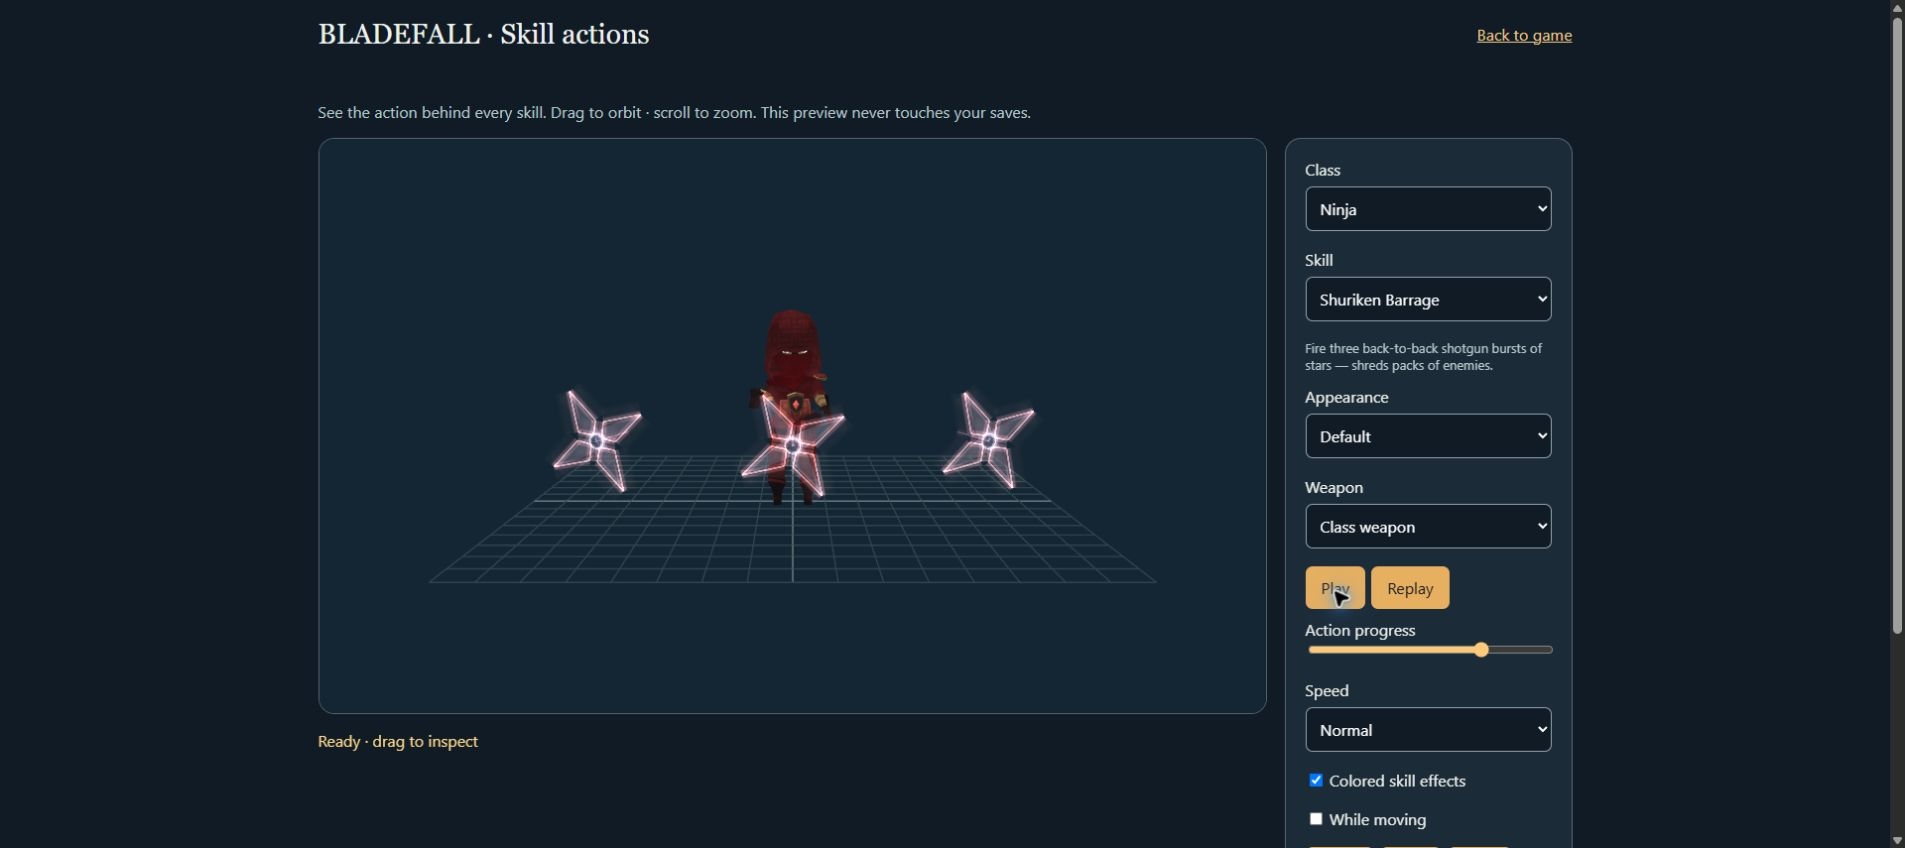
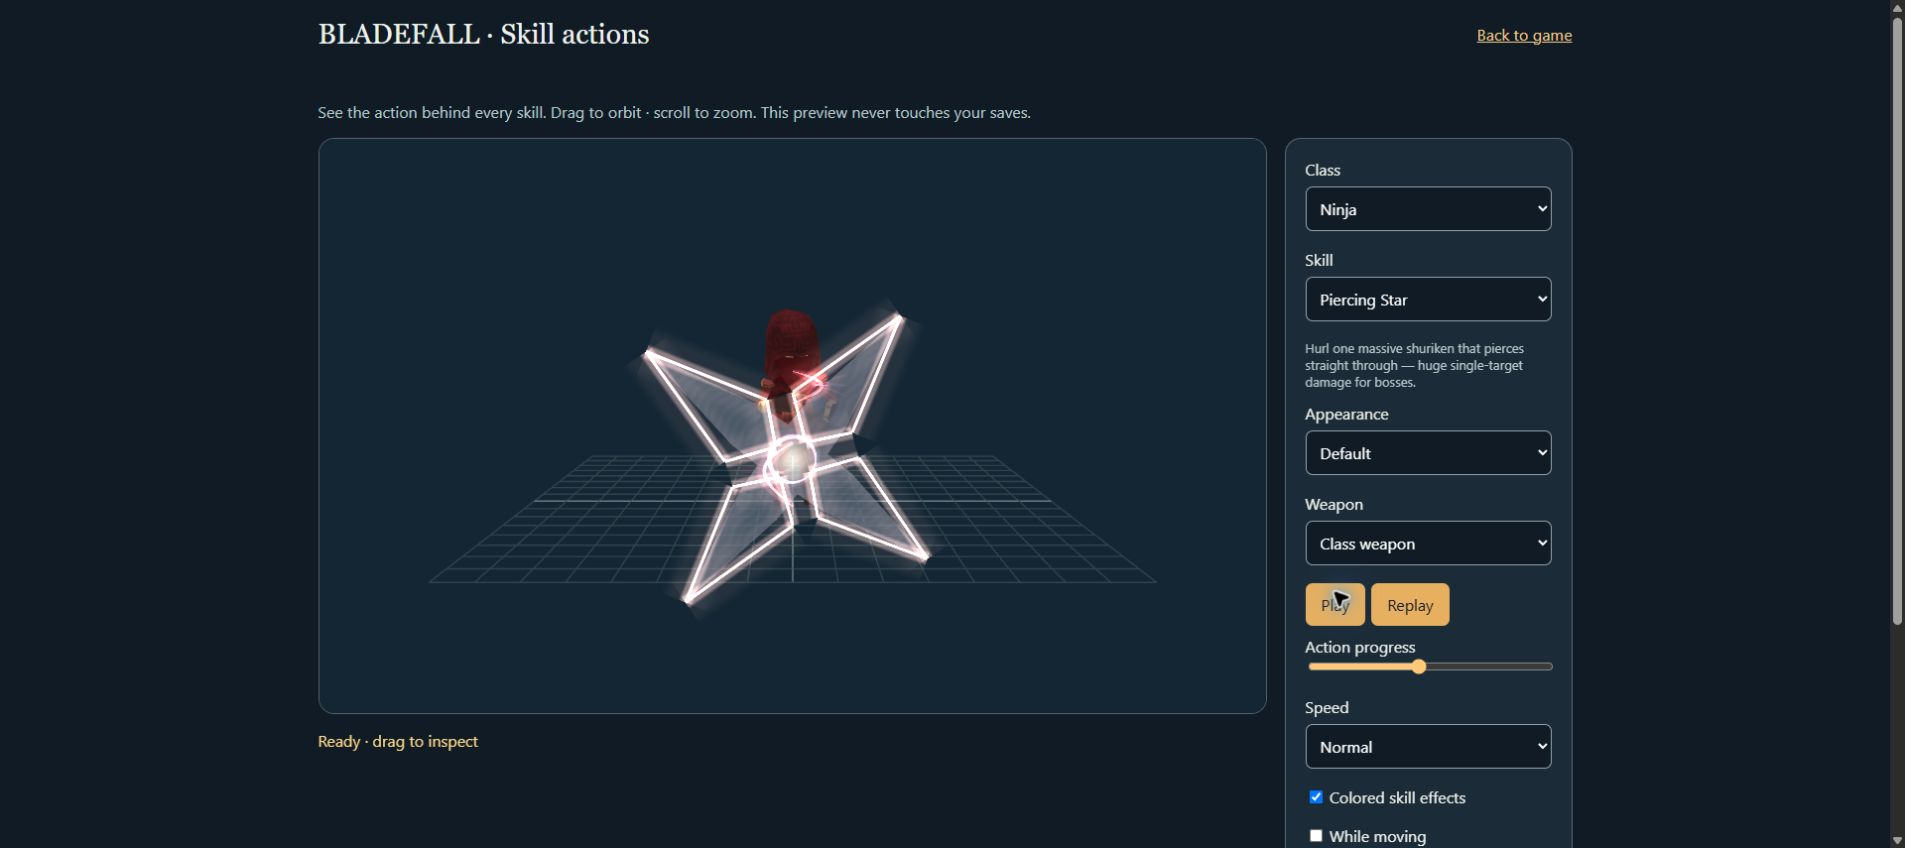
Record final frontal-readability release checks

diff --git a/docs/requirements/CONTINUITY.md b/docs/requirements/CONTINUITY.md
@@ -3324,3 +3324,6 @@ Published verification: code bf50331f / mirror 3a4349d5, Cloudflare 521c458c suc
 
 ## 2026-10-22 - Piercing Star frontal readability (2.362.1)
 Final front-camera comparison found the giant shuriken was permanently edge-on along its flight direction because an outer quarter-turn rotated its already-upright disc. Use a slight cant instead; silhouette now reads from the normal front/back view. Other skills, gameplay and durations unchanged. Refresh identity script cache in game and preview.
+
+
+Final patch verification: code9ae3c498 / mirror7968fa97, Cloudflare829753ae succeeded. All19 resources again match SHA256 on deployment and production for2.362.1. Old level4 Warrior save loads with1145gold and v2362b identity module. Frontal Piercing Star checked in native production preview; transformed blade width/height is0.99 at three phases. Published native136-skill regression rerun recorded in public-native.json.

diff --git a/docs/requirements/DECISION_LOG.md b/docs/requirements/DECISION_LOG.md
@@ -2703,3 +2703,6 @@ Published verification: code bf50331f / mirror 3a4349d5, Cloudflare 521c458c suc
 
 ## 2026-10-22 - Piercing Star frontal readability (2.362.1)
 Final front-camera comparison found the giant shuriken was permanently edge-on along its flight direction because an outer quarter-turn rotated its already-upright disc. Use a slight cant instead; silhouette now reads from the normal front/back view. Other skills, gameplay and durations unchanged. Refresh identity script cache in game and preview.
+
+
+Final patch verification: code9ae3c498 / mirror7968fa97, Cloudflare829753ae succeeded. All19 resources again match SHA256 on deployment and production for2.362.1. Old level4 Warrior save loads with1145gold and v2362b identity module. Frontal Piercing Star checked in native production preview; transformed blade width/height is0.99 at three phases. Published native136-skill regression rerun recorded in public-native.json.
